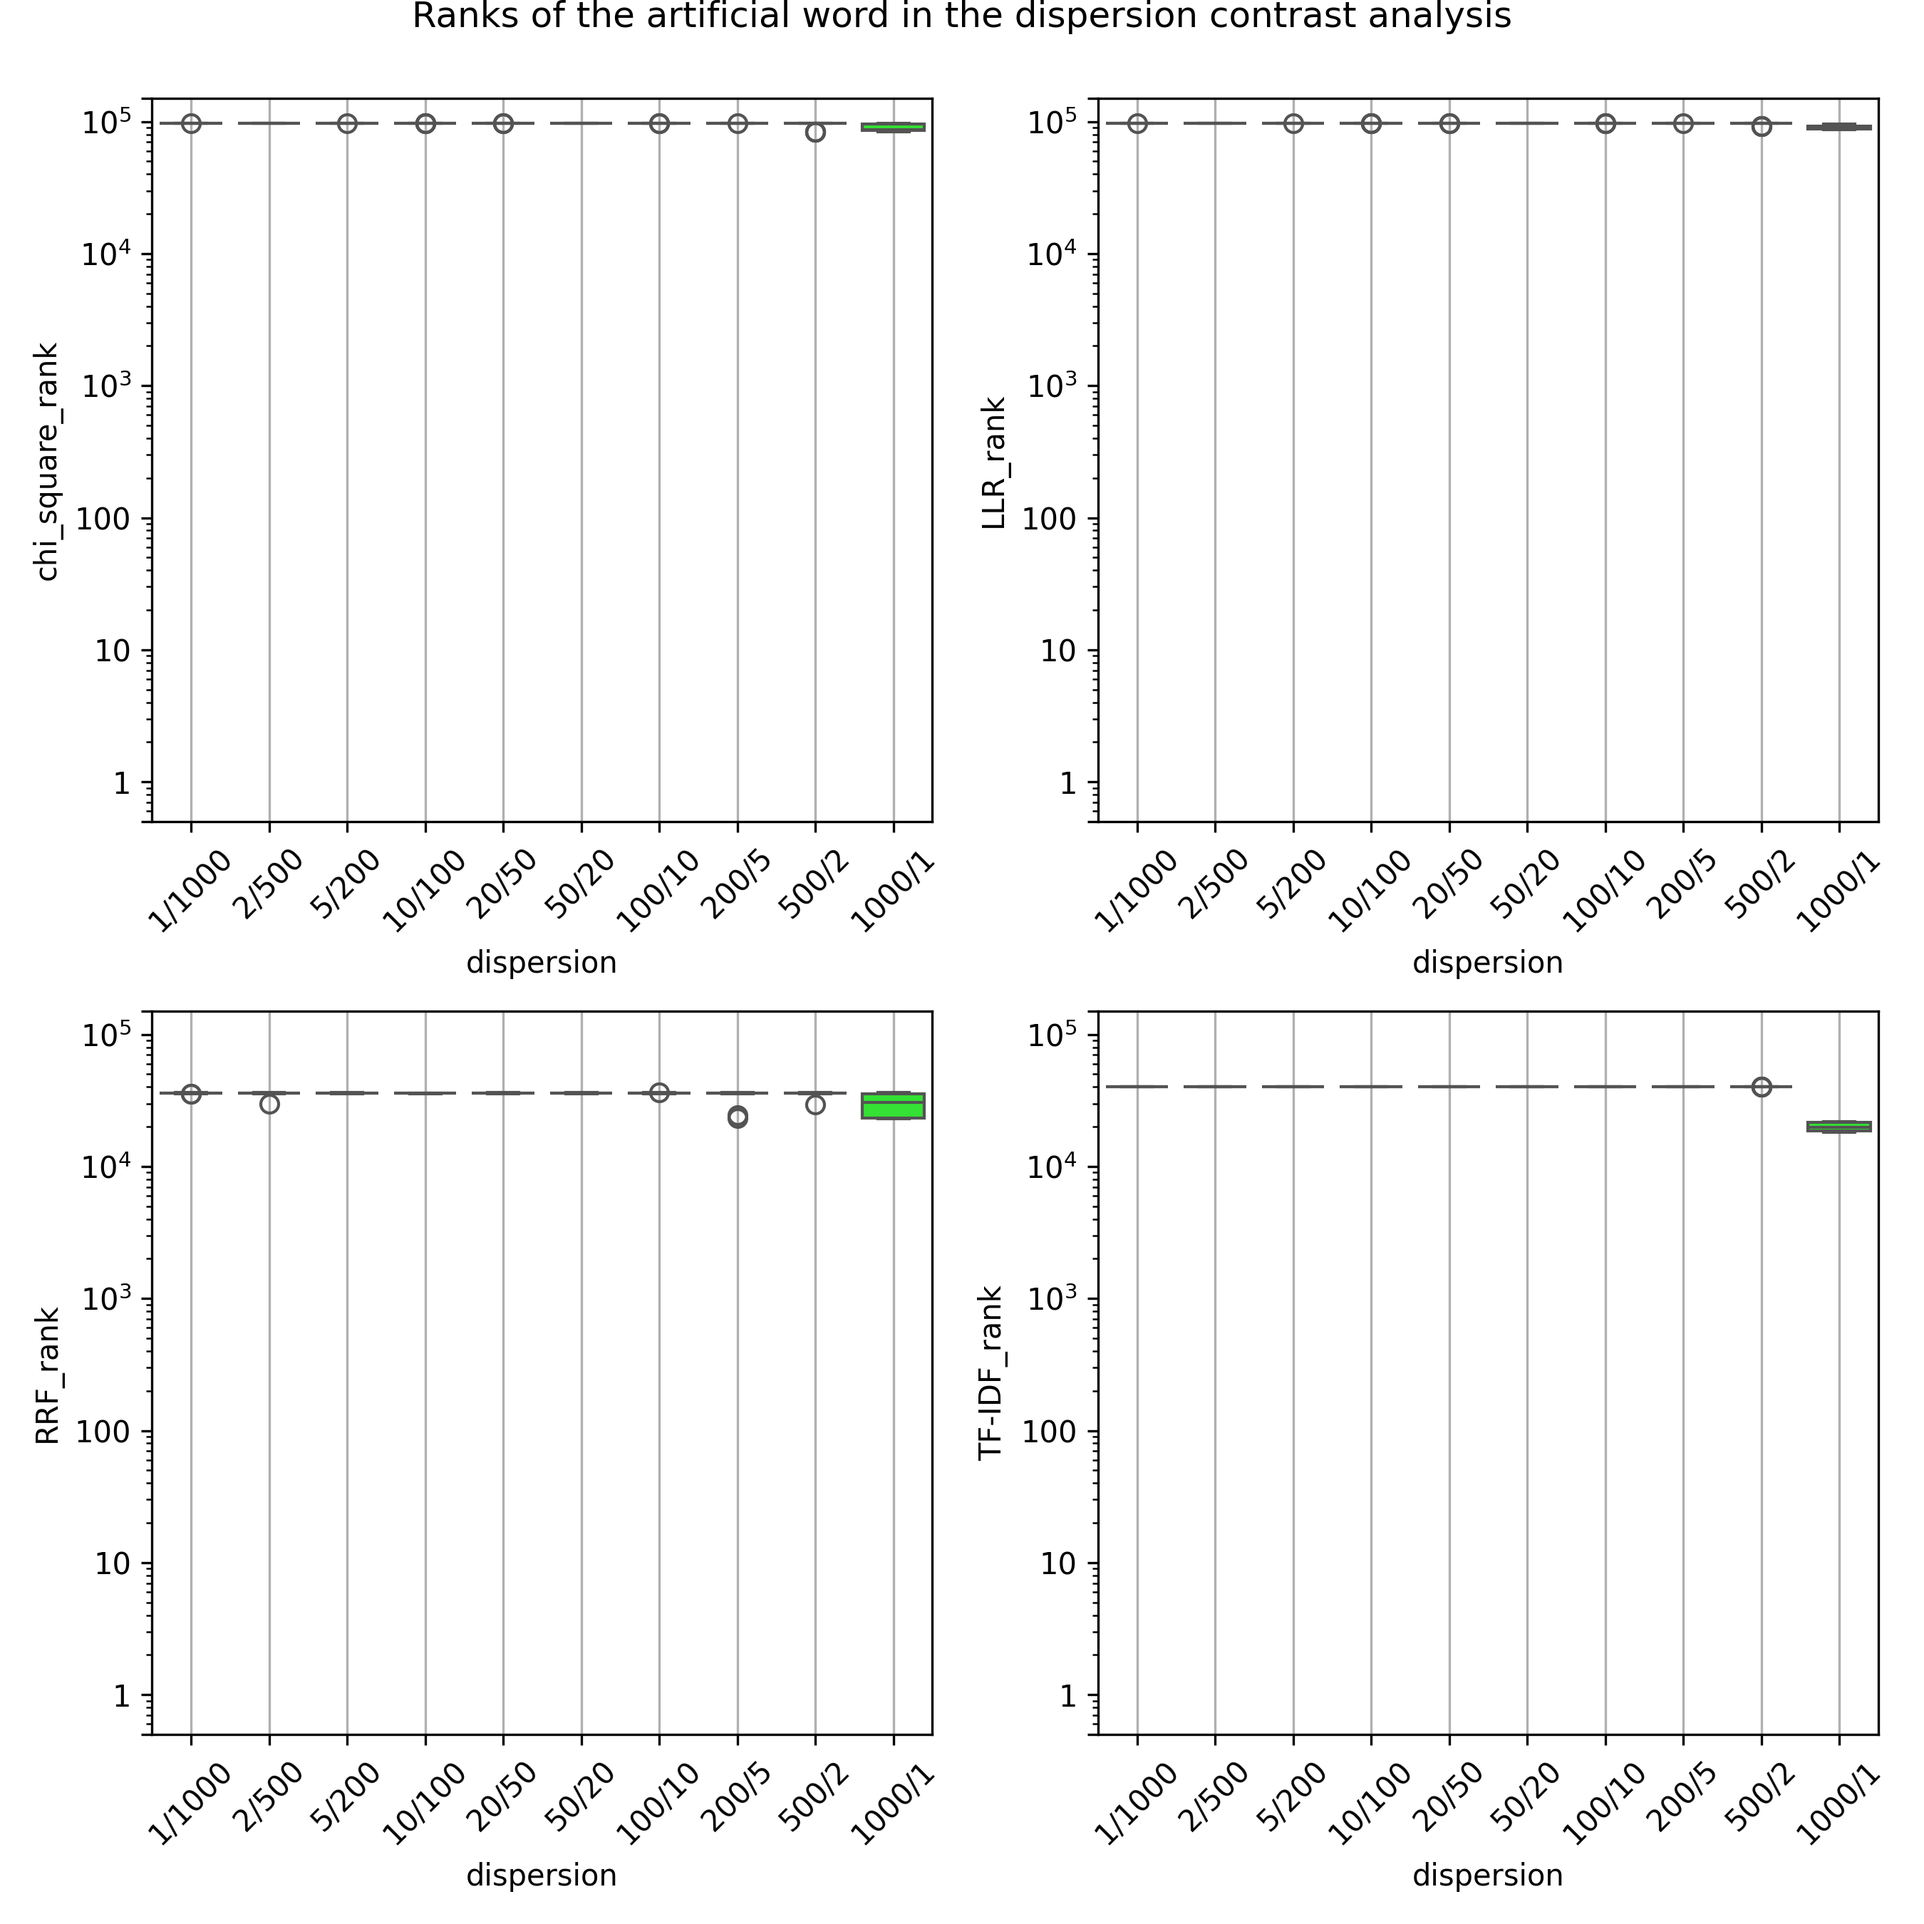
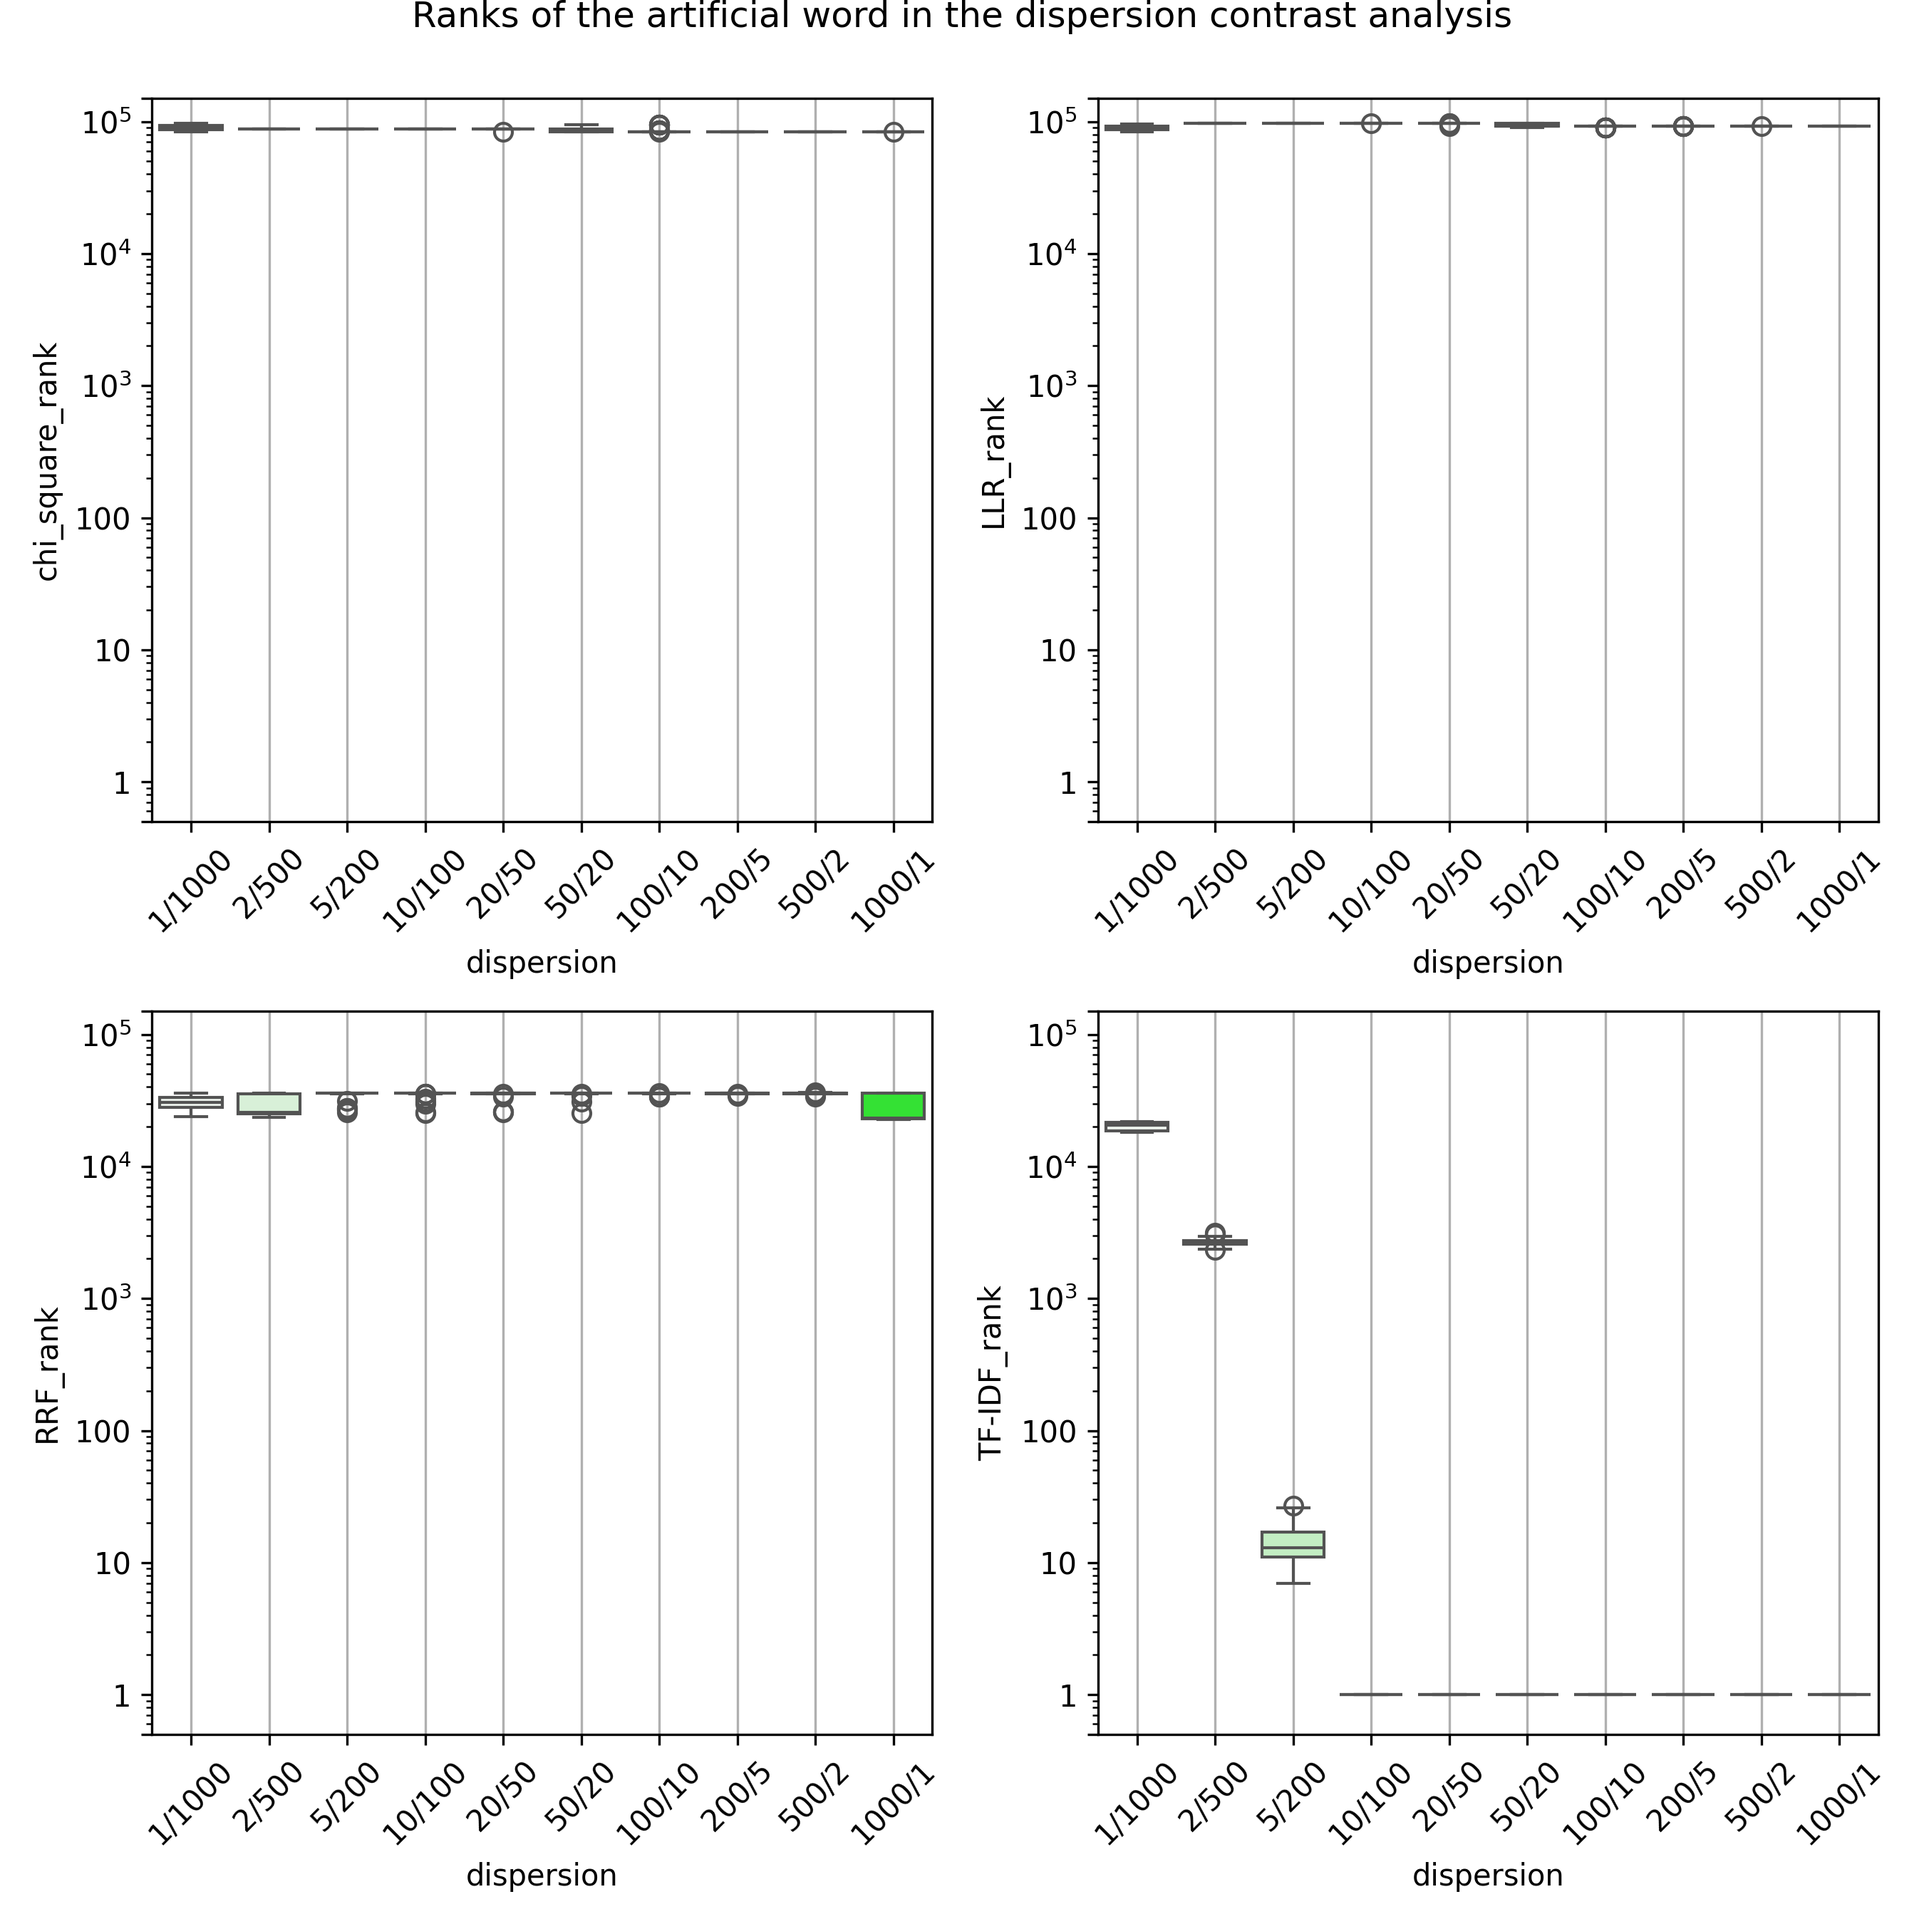
fixes

diff --git a/scripts/4_make-2x2-plots.py b/scripts/4_make-2x2-plots.py
@@ -16,8 +16,8 @@ import re
 
 ## Select group of results 
 #group = "frequency"
-group = "dispersion_1000s-1f"
-##group = "dispersion_1s-1000f"
+##group = "dispersion_1000s-1f"
+group = "dispersion_1s-1000f"
 
 # Don't change
 groupindex = re.split("_", group)[0]
@@ -25,20 +25,20 @@ groupindex = re.split("_", group)[0]
 ## Select plot file name 
 #plotfilename = "2x2-plot_frequency-A.png"
 #plotfilename = "2x2-plot_frequency-B.png"
-#plotfilename = "2x2-plot_dispersion-A.png"
-plotfilename = "2x2-plot_dispersion-B.png"
+plotfilename = "2x2-plot_dispersion-A.png"
+#plotfilename = "2x2-plot_dispersion-B.png"
 
 
 # Define the result files and corresponding rank columns; select 4 per plot! 
 result_files = {
-    #"chi_square": [join("results", group, "chi_square.csv"), "chi_square_rank"],
-    #"LLR": [join("results", group, "LLR.csv"), "LLR_rank"],
-    #"RRF": [join("results", group, "RRF.csv"), "RRF_rank"],
-    #"tf_idf": [join("results", group, "tf_idf.csv"), "TF-IDF_rank"],
-    "zeta": [join("results", group, "zeta_0.csv"), "zeta_rank"],
-    "eta": [join("results", group, "eta.csv"), "eta_rank"],
-    "ranksum": [join("results", group, "ranksum.csv"), "ranksum_rank"],
-    "Welch": [join("results", group, "welch.csv"), "Welch_rank"],
+    "chi_square": [join("results", group, "chi_square.csv"), "chi_square_rank"],
+    "LLR": [join("results", group, "LLR.csv"), "LLR_rank"],
+    "RRF": [join("results", group, "RRF.csv"), "RRF_rank"],
+    "tf_idf": [join("results", group, "tf_idf.csv"), "TF-IDF_rank"],
+    #"zeta_log": [join("results", group, "zeta_2.csv"), "zeta_log_rank"],
+    #"eta": [join("results", group, "eta.csv"), "eta_rank"],
+    #"ranksum": [join("results", group, "ranksum.csv"), "ranksum_rank"],
+    #"Welch": [join("results", group, "welch.csv"), "Welch_rank"],
 }
 
 # === Functions === 
@@ -53,14 +53,14 @@ def process_file(filepath, rank_column, original_rank_col):
 
 # Read and process all files with specific original rank column names
 dfs = {
-    #"chi_square": process_file(result_files["chi_square"][0], result_files["chi_square"][1], 'chi_square_rang'),
-    #"LLR": process_file(result_files["LLR"][0], result_files["LLR"][1], 'LLR_rang'),
-    #"RRF": process_file(result_files["RRF"][0], result_files["RRF"][1], 'rrf_dr0_rang'),
-    #"tf_idf": process_file(result_files["tf_idf"][0], result_files["tf_idf"][1], 'tf_idf_rang'),
-    "zeta": process_file(result_files["zeta"][0], result_files["zeta"][1], 'zeta_sd0_rang'),
-    "eta": process_file(result_files["eta"][0], result_files["eta"][1], 'eta_sg0_rang'),
-    "ranksum": process_file(result_files["ranksum"][0], result_files["ranksum"][1], 'ranksum_rang'),
-    "Welch": process_file(result_files["Welch"][0], result_files["Welch"][1], 'welch_rang'),
+    "chi_square": process_file(result_files["chi_square"][0], result_files["chi_square"][1], 'chi_square_rang'),
+    "LLR": process_file(result_files["LLR"][0], result_files["LLR"][1], 'LLR_rang'),
+    "RRF": process_file(result_files["RRF"][0], result_files["RRF"][1], 'rrf_dr0_rang'),
+    "tf_idf": process_file(result_files["tf_idf"][0], result_files["tf_idf"][1], 'tf_idf_rang'),
+    #"zeta_log": process_file(result_files["zeta_log"][0], result_files["zeta_log"][1], 'zeta_sd2_rang'),
+    #"eta": process_file(result_files["eta"][0], result_files["eta"][1], 'eta_sg0_rang'),
+    #"ranksum": process_file(result_files["ranksum"][0], result_files["ranksum"][1], 'ranksum_rang'),
+    #"Welch": process_file(result_files["Welch"][0], result_files["Welch"][1], 'welch_rang'),
 }
 
 # Set up the plot
@@ -69,14 +69,14 @@ fig, axes = plt.subplots(2, 2, figsize=(9, 9), dpi=300)
 
 # Plot each data set
 plot_params = [
-    #(dfs['chi_square'], 'chi_square_rank', axes[0, 0]),
-    #(dfs['LLR'], 'LLR_rank', axes[0, 1]),
-    #(dfs['RRF'], 'RRF_rank', axes[1, 0]),
-    #(dfs['tf_idf'], 'TF-IDF_rank', axes[1, 1])
-    (dfs['zeta'], 'zeta_rank', axes[0, 0]),
-    (dfs['eta'], 'eta_rank', axes[0, 1]),
-    (dfs['ranksum'], 'ranksum_rank', axes[1, 0]),
-    (dfs['Welch'], 'Welch_rank', axes[1, 1])
+    (dfs['chi_square'], 'chi_square_rank', axes[0, 0]),
+    (dfs['LLR'], 'LLR_rank', axes[0, 1]),
+    (dfs['RRF'], 'RRF_rank', axes[1, 0]),
+    (dfs['tf_idf'], 'TF-IDF_rank', axes[1, 1])
+    #(dfs['zeta_log'], 'zeta_log_rank', axes[0, 0]),
+    #(dfs['eta'], 'eta_rank', axes[0, 1]),
+    #(dfs['ranksum'], 'ranksum_rank', axes[1, 0]),
+    #(dfs['Welch'], 'Welch_rank', axes[1, 1])
 ]
 
 for df, rank_col, ax in plot_params:
